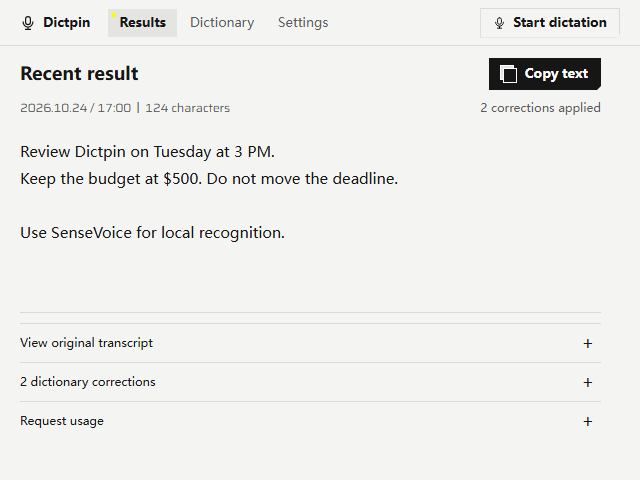
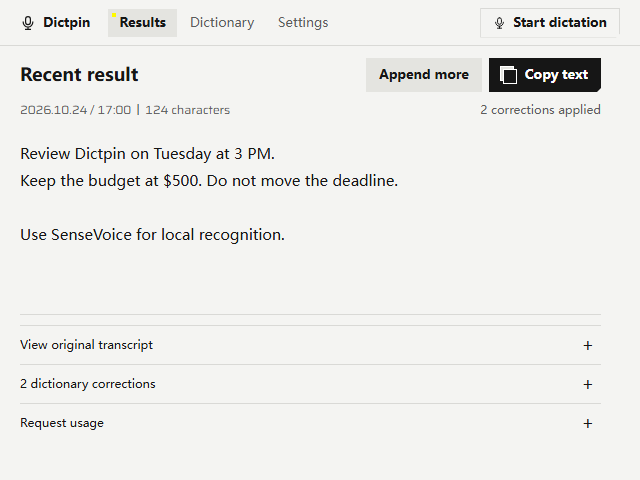
Document guarded paste and long dictation; refresh English app examples

diff --git a/app/renderer/dictation-i18n.js b/app/renderer/dictation-i18n.js
@@ -8,7 +8,7 @@
  const protectedAttributes='#original-text,#correction-list,#provider-summary,.word-title,.word-aliases,[data-user-text]';
  const chrome='title,button,label,summary,h1,h2,h3,.app-name,.skip,.hint,.empty-copy,.dictionary-intro,.dictionary-help,.privacy-note,.count-unit,#notice,#session-status,#task-status-title,#task-status-detail,#result-message,#recent-time,#shortcut-prefix,#shortcut-suffix,#toast-text,#word-undo-text,#word-error,#confirm-description,#bar-status,#bar-feedback,#voice-pill';
  const english=Object.freeze({
-  '继续追加':'Append more','继续追加？':'Append more?','安全自动粘贴':'Guarded auto-paste','快捷键继续追加到最近结果':'Append to the latest result with the shortcut','保留前一稿；自动投递只发送新增部分。':'Keep the earlier draft; delivery sends only new text.',
+  '继续追加':'Append more','继续追加？':'Append more?','撤销追加':'Undo append','安全自动粘贴':'Guarded auto-paste','快捷键继续追加到最近结果':'Append to the latest result with the shortcut','保留前一稿；自动投递只发送新增部分。':'Keep the earlier draft; delivery sends only new text.',
   '默认关闭。仅快捷键唤起可投递；焦点变化时保留文字。会替换剪贴板。':'Off by default. Shortcut only; focus changes block delivery. Replaces clipboard.','投递中':'Delivering','正在录音，逐段识别':'Recording with local previews','正在完成剩余片段':'Finishing remaining segments',
   '完成后由你复制。':'Copy manually when ready.','正在确认原输入框。':'Checking the original input field.','结束后将尝试粘贴到原输入框。':'After Stop, attempt one paste to the original input field.','正在安全投递文字…':'Delivering text with safety checks…',
   '已发送粘贴按键；请在原输入框核对，文字也已放入剪贴板。':'Paste keys sent. Check the original field; text is also on the clipboard.','未自动粘贴，文字仍在，请手动复制。':'Auto-paste was blocked. Your text is still here to copy.','自动粘贴未完成，文字仍在，请手动复制。':'Auto-paste did not finish. Your text is still here.',

diff --git a/app/renderer/dictation-app.js b/app/renderer/dictation-app.js
@@ -97,6 +97,8 @@
   $('confirm-keep').addEventListener('click',cancel);$('confirm-apply').addEventListener('click',run);dialog.addEventListener('cancel',cancel,{once:true});$('confirm-keep').focus();
  }
  function renderResult(){
+  $('task-status').dataset.segmented=String(!!snapshot.state.pipeline);
+  $('undo-text').textContent=snapshot.recentResult?.source==='appended'?'撤销追加':'撤销还原';
   const delivery=snapshot.state.delivery;$('delivery-message').hidden=!delivery||delivery.status==='manual';$('delivery-message').textContent=delivery?.message||'';
   const task=model.sessionView(snapshot);$('task-status').hidden=!task.active;$('task-status-title').textContent=task.title;$('task-status-detail').textContent=task.detail;
   const steps=['recording','recognition','cleanup'],current=steps.indexOf(task.step);for(const step of $('task-status').querySelectorAll('[data-step]')){const index=steps.indexOf(step.dataset.step);step.hidden=true;step.dataset.complete=String(index<current);if(index===current)step.setAttribute('aria-current','step');else step.removeAttribute('aria-current');}

diff --git a/app/renderer/dictation.css b/app/renderer/dictation.css
@@ -78,4 +78,5 @@ textarea{font:15px/1.8 var(--ef-font-text);color:var(--ef-ink);border:1px solid 
 
 .result-content{resize:none}.result-content:focus-visible{padding-inline:0;outline:1px solid var(--ef-rule);outline-offset:4px}
 .result-actions{flex-wrap:wrap;justify-content:flex-end}.delivery-message{padding:6px 0;margin:0 0 8px;line-height:1.6;border-bottom:1px solid var(--ef-rule)}
+.task-status[data-segmented=true]{flex-wrap:wrap}.task-status[data-segmented=true]>p{display:block;margin:0;font-size:12px}
 @media(max-width:390px){.result-actions{gap:5px}.result-actions button{font-size:11px;padding-inline:8px;min-width:58px}}

diff --git a/docs/i18n/README.ko.md b/docs/i18n/README.ko.md
@@ -44,11 +44,11 @@ Qwen 주소와 모델의 설정 예이며 API 키는 비어 있습니다. 연결
 - **로컬 음성 인식:** CPU에서 실행되는 SenseVoice와 Silero 음성 활동 감지를 사용합니다. 자동으로 클라우드 음성 인식으로 전환하지 않습니다.
 - **명시적인 사전 교정:** 올바른 용어와 자주 발생하는 오인식 표기를 선택적으로 등록합니다. 로컬에서 가장 긴 일치 규칙을 우선하여 한 번만 치환합니다. 동음이의어를 추측하거나 자동 학습하지 않습니다. 변경 내역을 확인하고 되돌릴 수 있습니다.
 - **다듬기가 끝나기 전에도 텍스트 사용:** 곧바로 편집하거나 복사할 수 있습니다. 어느 쪽이든 진행 중인 다듬기를 종료하며, 늦게 도착한 응답이 그 버전을 덮어쓰지 못합니다. 음성 인식 원문도 따로 남습니다.
-- **사용자가 선택하는 복구:** 취소된 완전한 녹음은 30초, 인식에 실패한 녹음은 최대 5분 동안 메모리에만 보관합니다. 다시 처리하려면 직접 눌러야 하며, 복구 시에는 원격 다듬기를 사용하지 않습니다.
+- **명시적 복구:** 완료된 텍스트는 보존하고, 제한된 미처리 PCM만 취소 후 30초 또는 인식 실패 후 최대 5분간 메모리에 유지합니다. 재시도는 명시적으로 실행하며 원격 다듬기를 사용하지 않습니다.
 - **작은 작업 공간:** 결과, 사전, 설정 페이지와 떠 있는 녹음 막대로 구성됩니다. 밝은 테마와 어두운 테마, 고대비, 동작 줄이기, 키보드 포커스를 구현했습니다.
 - **선택적 가벼운 다듬기:** 텍스트 Chat Completions 서비스를 통해 문장 부호, 문단 구분, 말 더듬기 등을 정리합니다. 실패하거나 12초 제한에 도달해도 로컬에서 교정한 초안을 계속 사용할 수 있습니다.
 
-실용적인 장점은 표현을 직접 통제할 수 있고, 오프라인 사전 규칙을 적용하며, 즉시 다시 녹음하지 않고도 복구할 수 있다는 점입니다. 모든 상황에 적용되는 정확도, 지연 시간, 메모리 사용량, 경쟁 제품 대비 성능은 주장하지 않습니다. 번역, 질의응답, 내용 확장, 자동 붙여넣기, 대규모 기록 대시보드는 범위에 포함하지 않습니다.
+실용적인 장점은 표현을 직접 통제할 수 있고, 오프라인 사전 규칙을 적용하며, 즉시 다시 녹음하지 않고도 복구할 수 있다는 점입니다. 모든 상황에 적용되는 정확도, 지연 시간, 메모리 사용량, 경쟁 제품 대비 성능은 주장하지 않습니다. 번역, 질의응답, 내용 확장, 대규모 기록 대시보드는 범위에 포함하지 않습니다.
 
 ## 사용 흐름
 
@@ -58,7 +58,21 @@ Qwen 주소와 모델의 설정 예이며 API 키는 비어 있습니다. 연결
          → 확인 / 편집 → 직접 복사
 ```
 
-한 번에 한 구간만 처리합니다. 인식 가능한 녹음은 최대 60초이며, 약 58초에 녹음을 자동으로 종료합니다. 다듬기 중 **复制文字**(텍스트 복사)를 누르면 현재 보이는 버전을 복사하고 다듬기를 종료합니다. 메인 창에서 `Ctrl+Enter`는 결과 전체를 복사하고, `Ctrl+C`는 일반적인 선택 영역 복사로 동작합니다. 선택 사항인 ‘최근 결과 복사’ 전역 단축키는 처음에는 지정되어 있지 않습니다.
+녹음 세션과 로컬 디코더는 각각 하나만 실행합니다. 멈추면 수락한 구간을 완료한 뒤 선택적인 다듬기와 전달을 진행합니다. 다듬기 중 편집·복사는 다듬기를 종료합니다. `Ctrl+Enter`는 전체 결과를, `Ctrl+C`는 일반적인 선택 영역을 복사합니다. 복사 단축키는 기본 미설정입니다.
+
+## 긴 받아쓰기, 이어 쓰기와 보호된 붙여넣기
+
+이제 녹음 중부터 용량이 제한된 로컬 파이프라인으로 음성을 전달합니다. 쉬는 지점을 우선해 최대 20초씩 나누고, SenseVoice 하나가 순서대로 인식합니다. 녹음 중에도 텍스트를 미리 보고 저장할 수 있습니다. 세션의 60초 제한을 없앴습니다. 30분, 100,000자 또는 인식 대기 누적 시 보호 장치가 녹음을 멈추며, 수락한 오디오를 조용히 잘라 버리지 않습니다.
+
+**Append more**는 수동으로 편집한 앞부분을 유지하고 다음 녹음을 이어 씁니다. 단축키 이어 쓰기도 설정할 수 있습니다. 이전 텍스트는 다시 다듬지 않으며, 자동 전달은 새 부분만 보내 중복 붙여넣기를 방지합니다. 복사는 전체 결과를 대상으로 합니다. 인식 중 미리보기는 읽기 전용이며, 다듬기 중 편집하거나 복사하면 다듬기를 종료합니다.
+
+**보호된 자동 붙여넣기는 기본적으로 꺼져 있습니다.** 별도 Windows 도우미를 빌드하고 설정을 켜서 저장한 뒤, 지원되는 편집 가능 입력란에 포커스를 두고 단축키로 시작하세요. 명시적으로 멈춘 뒤 한 번만 붙여넣기를 시도합니다. 암호, 터미널, 관리자 권한 앱, 확인할 수 없는 컨트롤과 포커스·커서·프로세스·클립보드 변경은 전달을 막습니다. Dictpin 안에서 직접 멈춘 경우에만 원래 입력란으로 복귀를 시도하며, 무관한 앱을 강제로 활성화하지 않습니다. 앱 안에서 시작하면 수동 복사를 유지합니다.
+
+전달 시 클립보드를 새 텍스트로 바꿉니다. 이전 내용은 읽거나 백업하지 않습니다. 키 전송은 대상이 실제로 받았다는 증명이 아닙니다. 결과가 불확실하면 원래 입력란을 확인하며 자동 재시도하지 않습니다. 전달 중에는 시작·이어 쓰기·편집을 차단합니다. 보호 정지나 복구는 자동 붙여넣기를 허용하지 않습니다.
+
+완료된 텍스트는 저장합니다. 제한된 **미처리** PCM만 취소 후 30초, 인식 실패 후 최대 5분 동안 메모리에 보관합니다. 명시적인 재시도만 가능하며 원격 다듬기는 사용하지 않습니다. 긴 녹음 전체의 보관 기능이 아니며, 만료·삭제·종료 시 임시 오디오를 지웁니다.
+
+끊임없는 발화의 강제 분할은 경계 단어에 영향을 줄 수 있습니다. 실제 마이크, 입력 컨트롤, 포커스, 클립보드와 비교 성능은 별도 검수가 필요합니다. Typeless보다 우수하다는 주장은 하지 않습니다. [변경 기록](../../CHANGELOG.md)을 참고하세요.
 
 ## 빠른 시작: 개발 환경 준비
 
@@ -68,6 +82,7 @@ Qwen 주소와 모델의 설정 예이며 API 키는 비어 있습니다. 연결
 
 ```powershell
 .\native\build-local03.cmd
+.\native\build-delivery.cmd
 npm run doctor
 npm run check
 node scripts/package-inputs.cjs

diff --git a/docs/i18n/README.fr.md b/docs/i18n/README.fr.md
@@ -44,11 +44,11 @@ Adresse et modèle Qwen donnés en exemple ; le champ de clé API est vide. Aucu
 - **Reconnaissance locale :** SenseVoice sur processeur, avec détection d’activité vocale Silero ; aucun basculement automatique vers une reconnaissance dans le cloud.
 - **Corrections explicites du dictionnaire :** enregistrez un terme correct et, si nécessaire, ses erreurs de transcription fréquentes. Les remplacements locaux s’effectuent en un seul passage, en privilégiant la règle correspondante la plus longue, sans déduction d’homophones ni apprentissage automatique. Vous pouvez examiner et annuler les corrections.
 - **Texte disponible avant la fin du nettoyage :** modifiez ou copiez immédiatement. Ces deux actions arrêtent le nettoyage en attente ; une réponse tardive ne peut plus remplacer cette version. Le texte original de la reconnaissance reste accessible.
-- **Récupération volontaire :** un enregistrement complet annulé peut être récupéré pendant 30 secondes ; après un échec de reconnaissance, il reste disponible jusqu’à cinq minutes, uniquement en mémoire. La nouvelle tentative exige un clic et la récupération désactive le nettoyage distant.
+- **Reprise explicite :** le texte terminé est conservé ; le PCM non traité, borné et uniquement en mémoire, peut être repris pendant 30 secondes après annulation ou cinq minutes après échec, sans nettoyage distant.
 - **Un espace de travail compact :** résultat, dictionnaire, paramètres et petite barre flottante d’enregistrement. Les thèmes clair et sombre, le contraste élevé, la réduction des animations et le focus clavier sont déjà implémentés.
 - **Nettoyage léger facultatif :** ponctuation, paragraphes et suppression des hésitations par un service texte Chat Completions. En cas d’échec ou au bout de 12 secondes, le brouillon corrigé localement reste utilisable.
 
-Les avantages concrets sont la maîtrise du texte, des règles de dictionnaire utilisables hors ligne et la possibilité de récupérer un enregistrement sans devoir recommencer immédiatement. Nous ne revendiquons aucune précision, latence, consommation mémoire ou supériorité concurrentielle universelle. La traduction, les questions-réponses, l’enrichissement du texte, le collage automatique et un grand tableau de bord d’historique ne font pas partie du projet.
+Les avantages concrets sont la maîtrise du texte, des règles de dictionnaire utilisables hors ligne et la possibilité de récupérer un enregistrement sans devoir recommencer immédiatement. Nous ne revendiquons aucune précision, latence, consommation mémoire ou supériorité concurrentielle universelle. La traduction, les questions-réponses, l’enrichissement du texte, un grand tableau de bord d’historique ne font pas partie du projet.
 
 ## Déroulement
 
@@ -58,7 +58,21 @@ Démarrage explicite → microphone sélectionné → reconnaissance locale
                     → relecture / modification → copie explicite
 ```
 
-Un seul segment est traité à la fois. Chaque enregistrement est limité à 60 secondes ; l’enregistrement s’arrête vers 58 secondes. Pendant le nettoyage, **复制文字** (Copier le texte) copie la version visible et arrête le nettoyage. Dans la fenêtre principale, `Ctrl+Enter` copie le résultat complet et `Ctrl+C` conserve son comportement habituel de copie de la sélection. Le raccourci global facultatif « copier le dernier résultat » n’est pas attribué par défaut.
+Une seule session et un seul décodeur local à la fois. L’arrêt termine les segments acceptés avant le nettoyage et la livraison facultatifs. Modifier ou copier pendant le nettoyage l’arrête. `Ctrl+Enter` copie tout le résultat et `Ctrl+C` conserve la copie de sélection habituelle. Le raccourci de copie reste non attribué par défaut.
+
+## Dictée longue, ajout et collage protégé
+
+L’enregistrement alimente désormais un pipeline local borné. Les segments privilégient les pauses et durent au plus 20 secondes ; un seul moteur SenseVoice les décode dans l’ordre, avec aperçu et sauvegarde du texte pendant la dictée. La limite de session de 60 secondes est supprimée. Des garde-fous arrêtent la session à 30 minutes, 100 000 caractères ou en cas d’accumulation ; l’audio accepté n’est pas tronqué silencieusement.
+
+**Append more** conserve le brouillon précédent, y compris ses corrections manuelles, et ajoute l’enregistrement suivant. Une préférence permet aussi l’ajout au raccourci. Le texte antérieur n’est pas nettoyé à nouveau ; la livraison automatique ne transmet que le nouveau suffixe. Copier porte toujours sur le résultat complet. Les aperçus restent en lecture seule jusqu’à la fin du décodage ; pendant le nettoyage, modifier ou copier l’arrête.
+
+Le **collage protégé est désactivé par défaut**. Compilez l’outil Windows séparé, activez l’option et enregistrez, puis lancez la dictée par raccourci depuis un champ modifiable compatible. Après un arrêt explicite, un seul collage est tenté. Les mots de passe, terminaux, applications élevées, contrôles non vérifiables et changements de focus, curseur, processus ou presse-papiers le bloquent. Un retour au champ initial n’est autorisé qu’après un arrêt explicite dans Dictpin ; aucune application sans rapport n’est forcée au premier plan. Un démarrage dans l’application reste manuel.
+
+La livraison remplace le presse-papiers sans lire ni sauvegarder son contenu précédent. L’envoi des touches ne prouve pas leur réception. Si le résultat est incertain, vérifiez le champ d’origine ; aucune répétition automatique. Démarrage, ajout et édition sont bloqués pendant la livraison. Les arrêts de protection et la récupération n’autorisent pas de collage.
+
+Le texte terminé est sauvegardé. Seule la collection bornée de PCM **non traité** est récupérable en mémoire : 30 secondes après annulation, cinq minutes au plus après échec. La reprise est explicite, sans nettoyage distant ; ce n’est pas une archive de toute la dictée. Expiration, effacement et fermeture suppriment cet audio.
+
+Les découpes forcées peuvent affecter les mots sans pause. Microphones réels, contrôles natifs, focus, presse-papiers et performances comparatives nécessitent une validation séparée. Aucune supériorité sur Typeless n’est revendiquée. Voir le [journal des modifications](../../CHANGELOG.md).
 
 ## Démarrage rapide : environnement de développement
 
@@ -68,6 +82,7 @@ Depuis la racine du dépôt, une fois les ressources prêtes :
 
 ```powershell
 .\native\build-local03.cmd
+.\native\build-delivery.cmd
 npm run doctor
 npm run check
 node scripts/package-inputs.cjs

diff --git a/docs/i18n/README.ms.md b/docs/i18n/README.ms.md
@@ -44,11 +44,11 @@ Alamat dan model Qwen ialah contoh konfigurasi, manakala kunci API kosong. Tiada
 - **Pengecaman setempat:** SenseVoice pada CPU dengan pengesanan aktiviti suara Silero; tiada pertukaran automatik kepada pengecaman awan.
 - **Pembetulan kamus yang jelas:** simpan istilah yang betul dan, jika perlu, ejaan salah yang kerap berlaku. Penggantian setempat dilakukan sekali sahaja dengan mengutamakan padanan peraturan terpanjang; tiada tekaan homofon atau pembelajaran automatik. Anda boleh menyemak pembetulan dan membuat asal.
 - **Teks tersedia sebelum kemasan selesai:** terus sunting atau salin. Kedua-dua tindakan menamatkan kemasan yang sedang berjalan; respons lewat tidak boleh menggantikan versi itu. Transkrip asal kekal tersedia.
-- **Pemulihan atas pilihan pengguna:** rakaman lengkap yang dibatalkan boleh dipulihkan selama 30 saat, manakala rakaman yang gagal dikenal pasti boleh disimpan sehingga lima minit, dalam memori sahaja. Cubaan semula memerlukan klik; pemulihan menyahaktifkan kemasan jauh.
+- **Pemulihan yang jelas:** teks siap dikekalkan; PCM belum diproses yang terhad disimpan dalam memori selama 30 saat selepas Batal atau sehingga lima minit selepas kegagalan. Cuba semula memerlukan tindakan dan tidak menggunakan kemasan jauh.
 - **Ruang kerja kecil:** halaman hasil, kamus, tetapan dan bar rakaman terapung. Tema cerah/gelap, kontras tinggi, pengurangan gerakan dan fokus papan kekunci telah dilaksanakan.
 - **Kemasan ringan pilihan:** tanda baca, pembahagian perenggan dan pembuangan ketidaklancaran pertuturan melalui perkhidmatan teks Chat Completions. Jika gagal atau mencapai had 12 saat, draf yang dibetulkan secara setempat masih boleh digunakan.
 
-Kelebihan praktikalnya ialah kawalan terhadap perkataan, peraturan kamus luar talian dan pemulihan tanpa perlu terus merakam semula. Kami tidak membuat dakwaan menyeluruh tentang ketepatan, kependaman, penggunaan memori atau prestasi berbanding pesaing. Terjemahan, soal jawab, pengembangan teks, penampalan automatik dan papan pemuka sejarah yang besar berada di luar skop.
+Kelebihan praktikalnya ialah kawalan terhadap perkataan, peraturan kamus luar talian dan pemulihan tanpa perlu terus merakam semula. Kami tidak membuat dakwaan menyeluruh tentang ketepatan, kependaman, penggunaan memori atau prestasi berbanding pesaing. Terjemahan, soal jawab, pengembangan teks, papan pemuka sejarah yang besar berada di luar skop.
 
 ## Aliran kerja
 
@@ -58,7 +58,21 @@ Mula sendiri → mikrofon dipilih → pengecaman setempat
              → semak / sunting → salin sendiri
 ```
 
-Hanya satu segmen diproses pada satu-satu masa. Setiap segmen rakaman dihadkan kepada 60 saat; rakaman berhenti pada kira-kira 58 saat. Semasa kemasan, **复制文字** (Salin teks) menyalin versi yang sedang dipaparkan dan menamatkan kemasan. Dalam tetingkap utama, `Ctrl+Enter` menyalin keseluruhan hasil manakala `Ctrl+C` mengekalkan fungsi biasa untuk teks yang dipilih. Pintasan global pilihan “salin hasil terkini” tidak ditetapkan pada permulaan.
+Hanya satu sesi rakaman dan satu penyahkod setempat berjalan. Henti menyelesaikan segmen yang diterima sebelum kemasan dan penghantaran pilihan. Sunting atau salin semasa kemasan menamatkannya. `Ctrl+Enter` menyalin seluruh hasil; `Ctrl+C` kekal menyalin pilihan biasa. Pintasan salin pilihan tidak ditetapkan secara lalai.
+
+## Imlak panjang, sambung teks dan tampalan terlindung
+
+Rakaman kini dihantar ke saluran setempat yang terhad kapasiti semasa anda bercakap. Segmen mengutamakan jeda dan dihadkan kepada 20 saat; satu pekerja SenseVoice memprosesnya mengikut turutan, dengan pratonton dan simpanan teks semasa rakaman. Had sesi 60 saat telah dibuang. Perlindungan menghentikan sesi pada 30 minit, 100,000 aksara atau apabila barisan pengecaman bertambah; audio yang diterima tidak dipotong secara senyap.
+
+**Append more** mengekalkan draf terdahulu termasuk suntingan manual dan menyambung rakaman berikutnya. Pilihan sambung melalui pintasan juga tersedia. Teks lama tidak dikemas semula; penghantaran automatik hanya menghantar bahagian baharu supaya dokumen tidak ditampal dua kali. Salin masih merangkumi keseluruhan hasil. Pratonton adalah baca sahaja sehingga pengecaman selesai; menyunting atau menyalin semasa kemasan akan menamatkannya.
+
+**Tampalan terlindung dimatikan secara lalai.** Bina pembantu Windows berasingan, hidupkan pilihan dalam tetapan dan simpan, kemudian mulakan melalui pintasan dari medan boleh sunting yang disokong. Selepas Henti yang jelas, satu tampalan dicuba. Kata laluan, terminal, aplikasi berkeistimewaan tinggi, kawalan yang tidak dapat disahkan serta perubahan fokus, kursor, proses atau papan klip akan menyekatnya. Fokus hanya boleh dipulihkan selepas Henti yang jelas dalam Dictpin; aplikasi lain tidak diaktifkan secara paksa. Rakaman yang bermula dari aplikasi kekal menggunakan salinan manual.
+
+Penghantaran menggantikan papan klip dengan teks baharu tanpa membaca atau menyandarkan kandungan lama. Kekunci dihantar tidak membuktikan penerimaan oleh aplikasi sasaran. Jika hasil tidak pasti, semak medan asal; tiada cubaan semula automatik. Mula, sambung dan sunting disekat semasa penghantaran. Hentian perlindungan dan pemulihan tidak membenarkan tampalan automatik.
+
+Teks yang siap disimpan. Hanya koleksi PCM **belum diproses** yang terhad boleh dipulihkan dalam memori: 30 saat selepas Batal atau sehingga lima minit selepas kegagalan. Cuba semula secara jelas, tanpa kemasan jauh. Ini bukan arkib keseluruhan rakaman panjang. Luput, kosongkan dan keluar membuang audio sementara.
+
+Pemisahan paksa boleh menjejaskan perkataan yang disebut tanpa jeda. Mikrofon sebenar, kawalan input, fokus, papan klip dan perbandingan prestasi masih memerlukan penerimaan berasingan. Tiada dakwaan mengatasi Typeless. Lihat [log perubahan](../../CHANGELOG.md).
 
 ## Mula pantas: persediaan pembangunan
 
@@ -68,6 +82,7 @@ Selepas sumber disediakan, jalankan dari akar repositori:
 
 ```powershell
 .\native\build-local03.cmd
+.\native\build-delivery.cmd
 npm run doctor
 npm run check
 node scripts/package-inputs.cjs

diff --git a/README.md b/README.md
@@ -44,11 +44,11 @@ Example Qwen address and model, with the API key empty. No connection test, paid
 - **Local recognition:** CPU SenseVoice with Silero voice activity detection; no automatic cloud recognition fallback.
 - **Explicit dictionary correction:** save a correct term and optional common misspellings. Local, single-pass replacement uses the longest matching rule; no inferred homophones or automatic learning. Review corrections and undo them.
 - **Text before cleanup finishes:** edit or copy immediately. Either action ends pending cleanup; a late response cannot replace that version. The recognition original remains available.
-- **Deliberate recovery:** complete cancelled audio can be recovered for 30 seconds, and failed-recognition audio for up to five minutes, in memory only. Retry requires a click; recovery disables remote cleanup.
+- **Deliberate recovery:** completed text survives; bounded unfinished PCM can be retried for 30 seconds after Cancel or five minutes after failure, in memory only. Recovery is explicit and disables remote cleanup.
 - **A small workspace:** results, dictionary, settings, and a floating recording strip. Light/dark themes, high contrast, reduced motion, and keyboard focus are implemented.
 - **Optional light cleanup:** punctuation, paragraphing, and disfluency removal through a text Chat Completions service. Failure or a 12-second deadline leaves the local corrected draft usable.
 
-The practical advantages are control over wording, offline dictionary rules, and recovery without immediately recording again. We make no universal accuracy, latency, memory, or competitive-performance claim. Translation, question answering, expansion, automatic pasting, and a large history dashboard are outside the scope.
+The practical advantages are control over wording, offline dictionary rules, and recovery without immediately recording again. We make no universal accuracy, latency, memory, or competitive-performance claim. Translation, question answering, expansion, and a large history dashboard are outside the scope.
 
 ## Workflow
 
@@ -58,7 +58,21 @@ Explicit start → selected microphone → local recognition
               → review / edit → explicit copy
 ```
 
-One segment is processed at a time. Recorded segments are limited to 60 seconds; recording stops at about 58 seconds. During cleanup, **复制文字** (Copy text) copies the visible version and ends cleanup. In the main window, `Ctrl+Enter` copies the whole result and `Ctrl+C` keeps normal selection behavior. The optional “copy latest result” global shortcut starts unassigned.
+One recording session and one local decoder run at a time. Stop drains accepted segments before optional cleanup/delivery. During cleanup, Copy text or editing ends cleanup. `Ctrl+Enter` copies the full result; `Ctrl+C` retains normal selection copying. The optional copy-result shortcut remains unassigned by default.
+
+## Long dictation, append and guarded paste
+
+Recording now feeds a bounded local pipeline instead of waiting for a whole container at Stop. PCM segments prefer pauses and are capped at 20 seconds; one SenseVoice worker decodes them in order, with live text checkpoints inside the app. There is no 60-second session ceiling. Resource guards stop a session at 30 minutes, 100,000 characters, or a growing recognition backlog; accepted audio is not silently trimmed.
+
+Use **Append more** to keep the earlier edited draft and add the next recording. The optional shortcut append preference does the same. Earlier text is not re-refined; automatic delivery uses only the new suffix, so an existing document is not pasted twice. Full-result Copy remains explicit. Live previews are read-only until the remaining segments finish; once cleanup starts, editing/copying can end it safely.
+
+**Guarded auto-paste is off by default.** Build the separate Windows helper, enable it in Settings, save, then start with the dictation shortcut while a supported editable field is focused. After explicit Stop, Dictpin attempts one paste. It rejects passwords, terminals, elevated or unsupported controls, and changed focus/caret/process/clipboard ownership. Focus may return from Dictpin only after an explicit Stop in its own UI; unrelated applications are never forcibly activated. Starting from the app UI has no captured external target and stays manual.
+
+Delivery replaces the clipboard with the new text; it does not read or back up earlier clipboard content. “Paste keys sent” is not proof that the destination consumed them. An uncertain outcome asks you to check the original field, and is never automatically retried. New recording, append and editing are blocked while a paste is pending. Resource/backpressure stops and recovery do not authorize a paste.
+
+Completed text is checkpointed. Only the bounded **unfinished** PCM collection is recoverable: 30 seconds after Cancel or up to five minutes after recognition failure, in memory, with explicit retry and no remote cleanup. This is not a complete long-recording archive. Expiry, clear and exit erase the temporary audio.
+
+Forced segment boundaries can affect words spoken without pauses. Real microphone quality, native input-field compatibility, focus, clipboard delivery and comparative performance still require manual acceptance; no superiority over Typeless is claimed. See [Changelog](CHANGELOG.md).
 
 ## Quick start: developer setup
 
@@ -68,6 +82,7 @@ From the repository root, after preparing the resources:
 
 ```powershell
 .\native\build-local03.cmd
+.\native\build-delivery.cmd
 npm run doctor
 npm run check
 node scripts/package-inputs.cjs

diff --git a/docs/INSTALL.md b/docs/INSTALL.md
@@ -14,9 +14,10 @@
 git clone https://github.com/chenjinxian1/Dictpin.git
 cd Dictpin
 .\native\build-local03.cmd
+.\native\build-delivery.cmd
 ```
 
-The command builds only `native/local-asr-worker-local03.exe` in this checkout. It does not replace another application's worker, shared DLLs, or models. Preserve external artifacts and their notices; the source license does not relicense them.
+The first command builds `native/local-asr-worker-local03.exe`; the second builds the separate `native/dictpin-delivery.exe` for optional guarded paste. Both outputs stay in this checkout and are ignored by Git. The delivery helper uses the Windows .NET Framework UI Automation/Windows Forms assemblies supplied with the framework, not a downloaded dependency. It does not replace another application's worker, shared DLLs, or models. Preserve external artifacts and their notices; the source license does not relicense them.
 
 ## Required directory layout
 
@@ -60,9 +61,9 @@ node scripts/package-inputs.cjs
 npm run check:docs
 ```
 
-Doctor requires the external runtime/model layout and checks existence/version, not DLL completeness, model hashes or recognition quality. Compile the worker before launching. No microphone or model is started by these checks.
+The guarded delivery helper is optional for recognition and copying. Missing it disables native delivery without preventing manual use. `doctor` reports that optional component separately. Doctor requires the external runtime/model layout and checks existence/version, not DLL completeness, model hashes or recognition quality. Compile the worker before launching. No microphone or model is started by these checks.
 
-The portable source check does not require the original developer's private history, archive or launcher. Static package-input inspection checks that the locally built candidate and required production sources are present; it still reports **`distributionReady:false`**. A passing source check is not an accepted installer.
+The portable source check does not require the original developer's private history, archive or launcher. Static package-input inspection checks that both locally built helpers and required production sources are present; it still reports **`distributionReady:false`**. A passing source check is not an accepted installer.
 
 ## Start and use deliberately
 
@@ -72,9 +73,17 @@ npm run dev
 
 The launcher uses an isolated development profile under `work/dev/profile/`; it does not start recording by itself. Existing development settings are retained. First-run defaults leave cleanup and global shortcuts off. Test fixtures, legacy entry points, benchmark tools and internal review reports are excluded from this repository.
 
-In **设置** (Settings), choose the microphone actually used by Windows Recorder and click **保存更改** (Save changes). Without an API, keep **轻整理** off. Click **开始听写** to record and **结束听写** to stop, then inspect, edit or explicitly copy. A segment is limited to 60 seconds, with automatic stop around 58 seconds.
+In **设置** (Settings), choose the microphone actually used by Windows Recorder and click **保存更改** (Save changes). Without an API, keep **轻整理** off. Click **开始听写** to record and **结束听写** to stop, then inspect, edit or explicitly copy. Recording now previews ordered local recognition segments while you speak. Segments prefer pauses and are capped at 20 seconds; a session is guarded at 30 minutes/100,000 characters, with early stop if recognition falls behind. Completed text is preserved and accepted unfinished PCM is retained for explicit recovery.
 
 Settings save while idle and apply to the next task without restarting. A running task keeps its captured device/dictionary/service configuration. Complete cancelled audio can be recovered for 30 seconds, failed-recognition audio for up to five minutes, in memory only. Recovery requires a click and disables optional remote cleanup.
+
+## Guarded paste and append
+
+Build the delivery helper with the command above. In Settings, explicitly enable **安全自动粘贴** (Guarded auto-paste) and save. Existing profiles stay off unless newly opted in. Focus a supported editable field, then use the dictation shortcut. After explicit Stop, Dictpin attempts a single paste. App-UI starts stay manual. Passwords, terminals, elevated/unsupported controls and changed focus/caret/process/clipboard state block delivery. Returning from Dictpin is allowed only after an explicit Stop in its own UI, without forcing unrelated apps. The clipboard is replaced, not read or backed up.
+
+Use **继续追加** (Append more) for another recording without overwriting the earlier draft; the shortcut append preference is under Other options. Full Copy includes the combined result, while guarded delivery sends only newly added text. Existing text is not re-refined. During recording/decoding the preview is read-only; edit/copy is available once remaining segments finish. Appended results currently do not expose the whole-result cleanup retry action, preserving the earlier draft.
+
+An uncertain paste result means check the original input first; never assume nothing was inserted. There is no automatic retry. Resource/backpressure stops and recovered audio do not auto-paste. These are development capabilities, not completed physical-input acceptance. See [Privacy](PRIVACY.md) and [Changelog](../CHANGELOG.md).
 
 ## Optional English presentation
 

diff --git a/docs/PRIVACY.md b/docs/PRIVACY.md
@@ -4,9 +4,11 @@ This describes the current Windows development candidate, not a privacy certific
 
 ## What stays local
 
-Recording starts only after an explicit user action. WebM/Opus is decoded locally into 16 kHz mono PCM16, then processed by the local SenseVoice worker with Silero VAD. Explicit dictionary corrections are local. The product has no automatic cloud-recognition fallback.
+Recording starts only after an explicit user action. An AudioWorklet receives the device stream through a 16 kHz audio context and produces mono PCM16. Pause-preferred segments, at most 20 seconds each, enter one local SenseVoice worker with Silero VAD. Explicit dictionary corrections are local. The product has no automatic cloud-recognition fallback.
 
-The current product does not save new audio recordings to files. A complete validated cancelled segment can remain in process memory for **30 seconds**; a recognition failure can retain a complete segment for **up to five minutes**. Recovery requires a user action and disables optional cleanup. Expiry, clear, and exit discard that audio. Starting another recording with a pending segment asks before discarding it. Crash or power loss cannot guarantee recovery.
+The current product does not save new audio recordings to files. Completed text is checkpointed; completed audio is released. Only a bounded collection of accepted **unfinished** PCM segments remains recoverable in process memory: **30 seconds** after cancellation, or **up to five minutes** after recognition failure. This is not an archive of an entire long recording. Recovery requires an explicit action and disables optional cleanup and automatic paste. Expiry, clear, and exit discard that audio. Starting another recording with pending audio requires explicit discard, after capture has stopped. Crash or power loss cannot guarantee recovery.
+
+One recording session and one local decoder run at a time. The session guard is 30 minutes and 100,000 characters; queue pressure stops capture with accepted work retained. Continuous speech may hit a 20-second boundary, so boundary-word quality is not guaranteed by this engineering change.
 
 Do not interpret “no new recording files” as “no transcript storage.”
 
@@ -23,7 +25,17 @@ The normal development profile is `work/dev/profile/`. It is ignored by Git.
 | `token-usage.json` | Request/model/status/timing/token metadata. No transcript bodies or keys. Unknown price/usage is not zero cost. |
 | Other ignored `work/` directories | Session/temp/log/crash and automated-test artifacts. These are not publication material. |
 
-Manual result edits are saved after a short pause (400 ms); copy, navigation, a new task, and normal exit flush pending saves. A failed save leaves the in-memory draft available, but durable storage is not guaranteed: copy important text before exiting. No text-encryption or crash-proof recovery claim is made.
+Manual result edits are saved after a short pause (400 ms); copy, navigation, a new task, and normal exit flush pending saves. Live recording previews remain read-only until accepted audio finishes recognition. Append keeps the earlier edited draft unchanged and applies optional cleanup only to the newly recognized part. A failed save leaves the in-memory draft available, but durable storage is not guaranteed: copy important text before exiting. No text-encryption or crash-proof recovery claim is made.
+
+## Optional guarded Windows delivery
+
+Automatic paste is off by default and requires a new explicit settings consent. A dormant legacy `autoPaste` value does not enable it. The separate helper is launched only for an enabled shortcut-origin session; starting from the app UI stays manual.
+
+At shortcut start the helper checks the focused editable control and retains an opaque, temporary lease with process/control/caret and clipboard-sequence metadata. It rejects passwords, terminals, unsupported controls and elevated targets. Unrelated foreground, control, caret, process or clipboard changes invalidate delivery. Metadata stays in helper/main-process memory; target tokens are not broadcast to the renderer or written to result files. It does not read the clipboard's earlier contents or target text.
+
+After explicit Stop, one guarded attempt can replace the clipboard with the **newly added** text and send Ctrl+V. Returning focus from Dictpin is permitted only after an explicit Stop in its own UI; no unrelated application is forced forward. The clipboard is not automatically restored or backed up. The new text remains available for explicit copying. New recording, append and editing are blocked during pending delivery. Resource/backpressure stops and recovery do not authorize a paste.
+
+Sending keys does not prove that another application consumed them. Failed, partial or cancelled in-flight delivery may have an unknown outcome: check the original field before doing anything again. There is no automatic retry. Windows input injection cannot atomically bind a key batch to a particular target; conservative guards reduce risk but do not establish universal native compatibility or a security certification. Physical input controls, focus restoration, clipboard behavior and UIPI still need manual acceptance.
 
 ## Optional network processing
 

diff --git a/docs/i18n/README.zh-CN.md b/docs/i18n/README.zh-CN.md
@@ -44,11 +44,11 @@ Dictpin 是一款 Windows 桌面语音转文字应用的开发候选版，采用
 - **本地识别：**CPU SenseVoice 配合 Silero 语音活动检测，不会自动回退到云端识别。
 - **明确的词典纠正：**保存正确词语，可选填写常见错写。在本机按最长匹配规则单次替换，不猜同音词、不自动学习。可查看变化并撤销。
 - **整理完成前即可使用文字：**可以立即编辑或复制。任一操作都会结束当前整理，迟到响应不能覆盖该版本。识别原文始终独立保留。
-- **主动恢复：**取消后的完整录音可在 30 秒内恢复，识别失败的录音最多保留 5 分钟，仅存于内存。重试必须主动点击，恢复时不会启用远程轻整理。
+- **主动恢复：**已完成文字保留，有界的未处理 PCM 在取消后保留 30 秒、识别失败后保留最多 5 分钟，仅存内存；重试须主动操作，且不启用远程整理。
 - **小巧的工作空间：**结果、词典、设置三页，加上一条录音浮条。已实现浅色／深色、高对比、减少动态效果与键盘焦点支持。
 - **可选轻整理：**通过文本 Chat Completions 服务补标点、分段和处理口语停顿或明显口吃。失败或达到 12 秒等待上限时，本地纠正稿仍然可用。
 
-实际优势是文字由你掌握、词典规则可离线生效、失败后不必立即重新录音。我们不承诺适用于所有情况的准确率、延迟、内存占用或竞品性能优势。翻译、问答、扩写、自动粘贴和大型历史面板不在产品范围内。
+实际优势是文字由你掌握、词典规则可离线生效、失败后不必立即重新录音。我们不承诺适用于所有情况的准确率、延迟、内存占用或竞品性能优势。翻译、问答、扩写和大型历史面板不在产品范围内。
 
 ## 使用流程
 
@@ -58,7 +58,21 @@ Dictpin 是一款 Windows 桌面语音转文字应用的开发候选版，采用
          → 检查／编辑 → 主动复制
 ```
 
-一次只处理一段。单段录音最长 60 秒，录音约在 58 秒时自动结束。整理期间点击**复制文字**，会复制当前可见版本并结束整理。在主窗中，`Ctrl+Enter` 复制完整结果，`Ctrl+C` 保持普通的选中文字复制行为。可选的“复制最近结果”全局快捷键默认不占用任何组合。
+一次只录一场，由一个本地识别器依次处理。结束后先完成已接收的片段，再进行可选轻整理和投递。整理期间复制或编辑会结束整理。`Ctrl+Enter` 复制完整结果，`Ctrl+C` 保持普通选区复制。可选复制快捷键默认不占用系统组合。
+
+## 长时间听写、继续追加与安全粘贴
+
+录音现在进入有界的本地流水线，不再等结束后才解码整段容器。按停顿优先分段，每个片段最多 20 秒，由同一个 SenseVoice 识别器依次处理，录音期间即可查看已保存的文字。已解除单次 60 秒限制；单次 30 分钟、100,000 字符及识别积压仍受资源保护，已接收音频不会静默裁剪。
+
+点击**继续追加**，保留前一稿的手动修改并添加下一次录音；也可在设置中开启快捷键追加。此前文字不会再次轻整理，自动投递只发送新增部分，避免把已有文档重复粘贴。主动复制仍复制完整结果。录音及剩余片段识别期间，预览只读；进入轻整理后可编辑或复制以结束整理。
+
+**安全自动粘贴默认关闭。**先编译独立 Windows 投递组件，在设置中主动开启并保存，再让支持的可编辑输入框获得焦点，用听写快捷键开始。明确结束后，只尝试粘贴一次。密码框、终端、提权或无法确认的控件，以及焦点、光标、进程或剪贴板变化均会阻止投递。只有在本应用内明确点结束时，才允许尝试恢复原窗口焦点；不会强行激活无关应用。从应用内开始没有可靠外部目标，仍须主动复制。
+
+投递会用新增文字替换剪贴板，不读取或备份原剪贴板内容。“已发送粘贴按键”不代表目标程序已经接收；结果不确定时须先核对原输入框，不会自动重试。投递等待期间不能开始、追加或改写结果。资源保护、识别积压停止及恢复不授权自动粘贴。
+
+已识别文字会逐段保留；只有有界的**未处理** PCM 片段集合可恢复：取消后 30 秒、识别失败后最多 5 分钟，仅在内存，须主动重试且不调用远程整理。这不是完整长录音存档，到期、清除或退出即清空临时音频。
+
+持续不停顿时，强制分段可能影响边界词识别。真实麦克风质量、原生输入框兼容、焦点、剪贴板与竞品性能仍需人工验收；目前不宣称超过 Typeless。详见[更新日志](../../CHANGELOG.md)。
 
 ## 快速开始：开发环境
 
@@ -68,6 +82,7 @@ Dictpin 是一款 Windows 桌面语音转文字应用的开发候选版，采用
 
 ```powershell
 .\native\build-local03.cmd
+.\native\build-delivery.cmd
 npm run doctor
 npm run check
 node scripts/package-inputs.cjs

diff --git a/CHANGELOG.md b/CHANGELOG.md
@@ -6,6 +6,21 @@ This is an application-source development candidate. No installer release, tag o
 
 ### 2026-10-24
 
+#### Guarded delivery and long dictation — development candidate
+
+- Added **opt-in guarded Windows paste**. It captures a supported editable input only at shortcut start, checks process/control/caret/focus/clipboard changes, and attempts one Ctrl+V after explicit Stop. Passwords, terminals, elevated and unsupported targets fail closed. Only an explicit Stop inside Dictpin can authorize returning to the original field.
+- Preserved manual copying and introduced explicit consent versioning, so old dormant auto-paste settings never silently activate the feature. Pending delivery locks Start, append, copy and editing. Partial/ambiguous sends warn users to check the original field and never trigger an automatic retry.
+- Added **continuous 16 kHz PCM capture and an ordered, bounded local recognition pipeline**. Pause-preferred segments are capped at 20 seconds; text appears and is checkpointed while recording. Removed the 60-second session ceiling. A 30-minute/100,000-character guard and early backlog stop bound resource use without silently trimming accepted packets.
+- Added **Append more**, **Undo append** and optional shortcut append. Earlier manual text stays intact, optional cleanup processes only the new part, and delivery uses only the new suffix. Full-result Copy stays available. A final pass over immutable raw text handles explicit dictionary aliases spanning segment boundaries without recursive replacement.
+- Preserved completed text on interruption. Only bounded unfinished PCM is retained in memory for 30 seconds after Cancel or five minutes after failure; retry is explicit, local and disables remote cleanup and automatic delivery. Expiry, clear and exit discard audio. Recovery is not a full long-recording archive.
+- Resource/backpressure stops do **not** count as user-authorized paste. Fatal worklet output cannot seal a successful result. Repeated recovery attempts settle independently; late responses, duplicate/gapped packets and changed result revisions are rejected.
+
+Validation uses local deterministic tests, generated PCM and real Electron pages with simulated targets/clipboard/recognition. A real AudioWorklet was exercised with a generated audio stream. No physical microphone, actual external input, system clipboard or paid service was used. Native helpers compile and their pure self-tests run without native actions. Real UI Automation/input-field compatibility, focus restoration, UIPI, clipboard, device changes/DPI, acoustic boundary quality and comparative speed remain separate manual acceptance. No claim of outperforming Typeless, verified installer, release tag or deployed running version is made.
+
+For this change, **74 local tests** and **14 Electron flow checks** passed with natural exit 0, alongside source/dependency and six-language link checks. The 120-second flow uses generated PCM and a simulated recognizer; it does not measure SenseVoice accuracy or speed. The AudioWorklet check uses a generated 48 kHz stream converted to 16 kHz PCM. Test fixtures and raw reports remain local, outside the public tree.
+
+#### Source presentation and repository cleanup
+
 - Published the Dictpin application with English and five translated READMEs, setup/API/privacy guidance and MIT copyright chenjinxian1.
 - Added two English application examples with fictional content, separate from the labeled concept artwork. The optional English presentation mode preserves transcript and dictionary data; Chinese remains the default.
 - Simplified the public tree to the active application, required assets, native worker source, setup helpers and usage documentation. Removed test fixtures, benchmarks, legacy interfaces, internal review/release preparation and artwork-generation files from the current source tree. Full maintenance files remain local.
